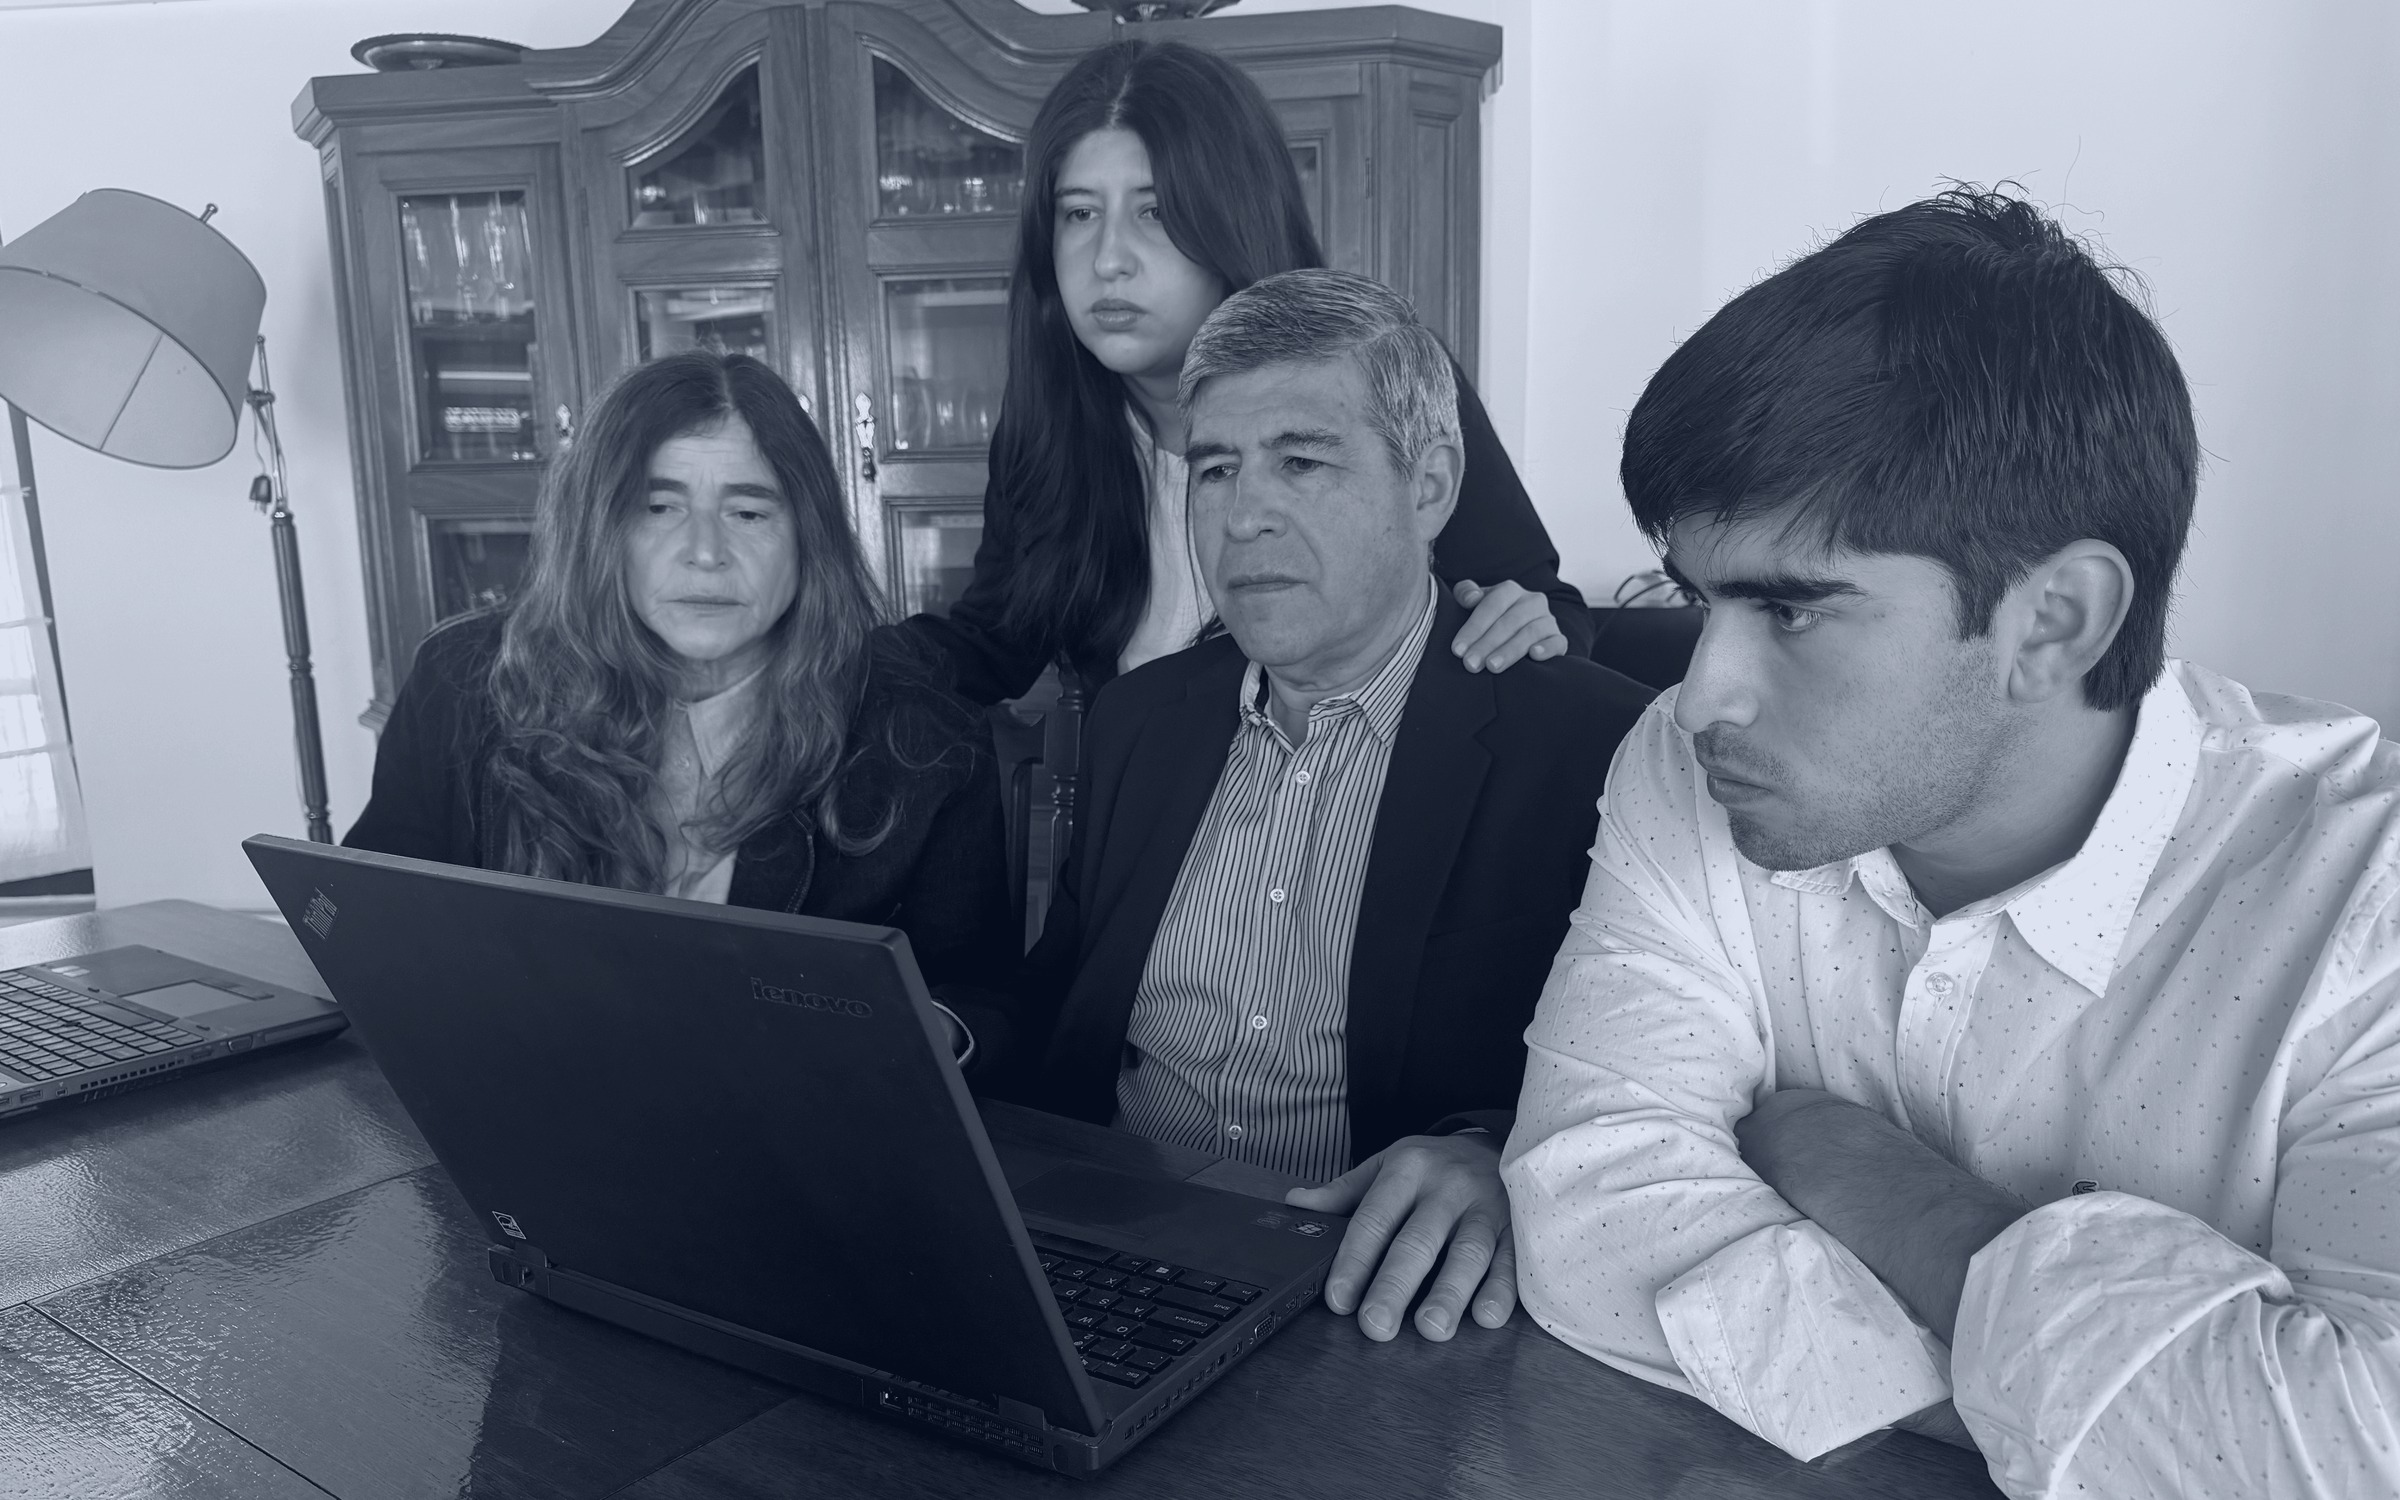
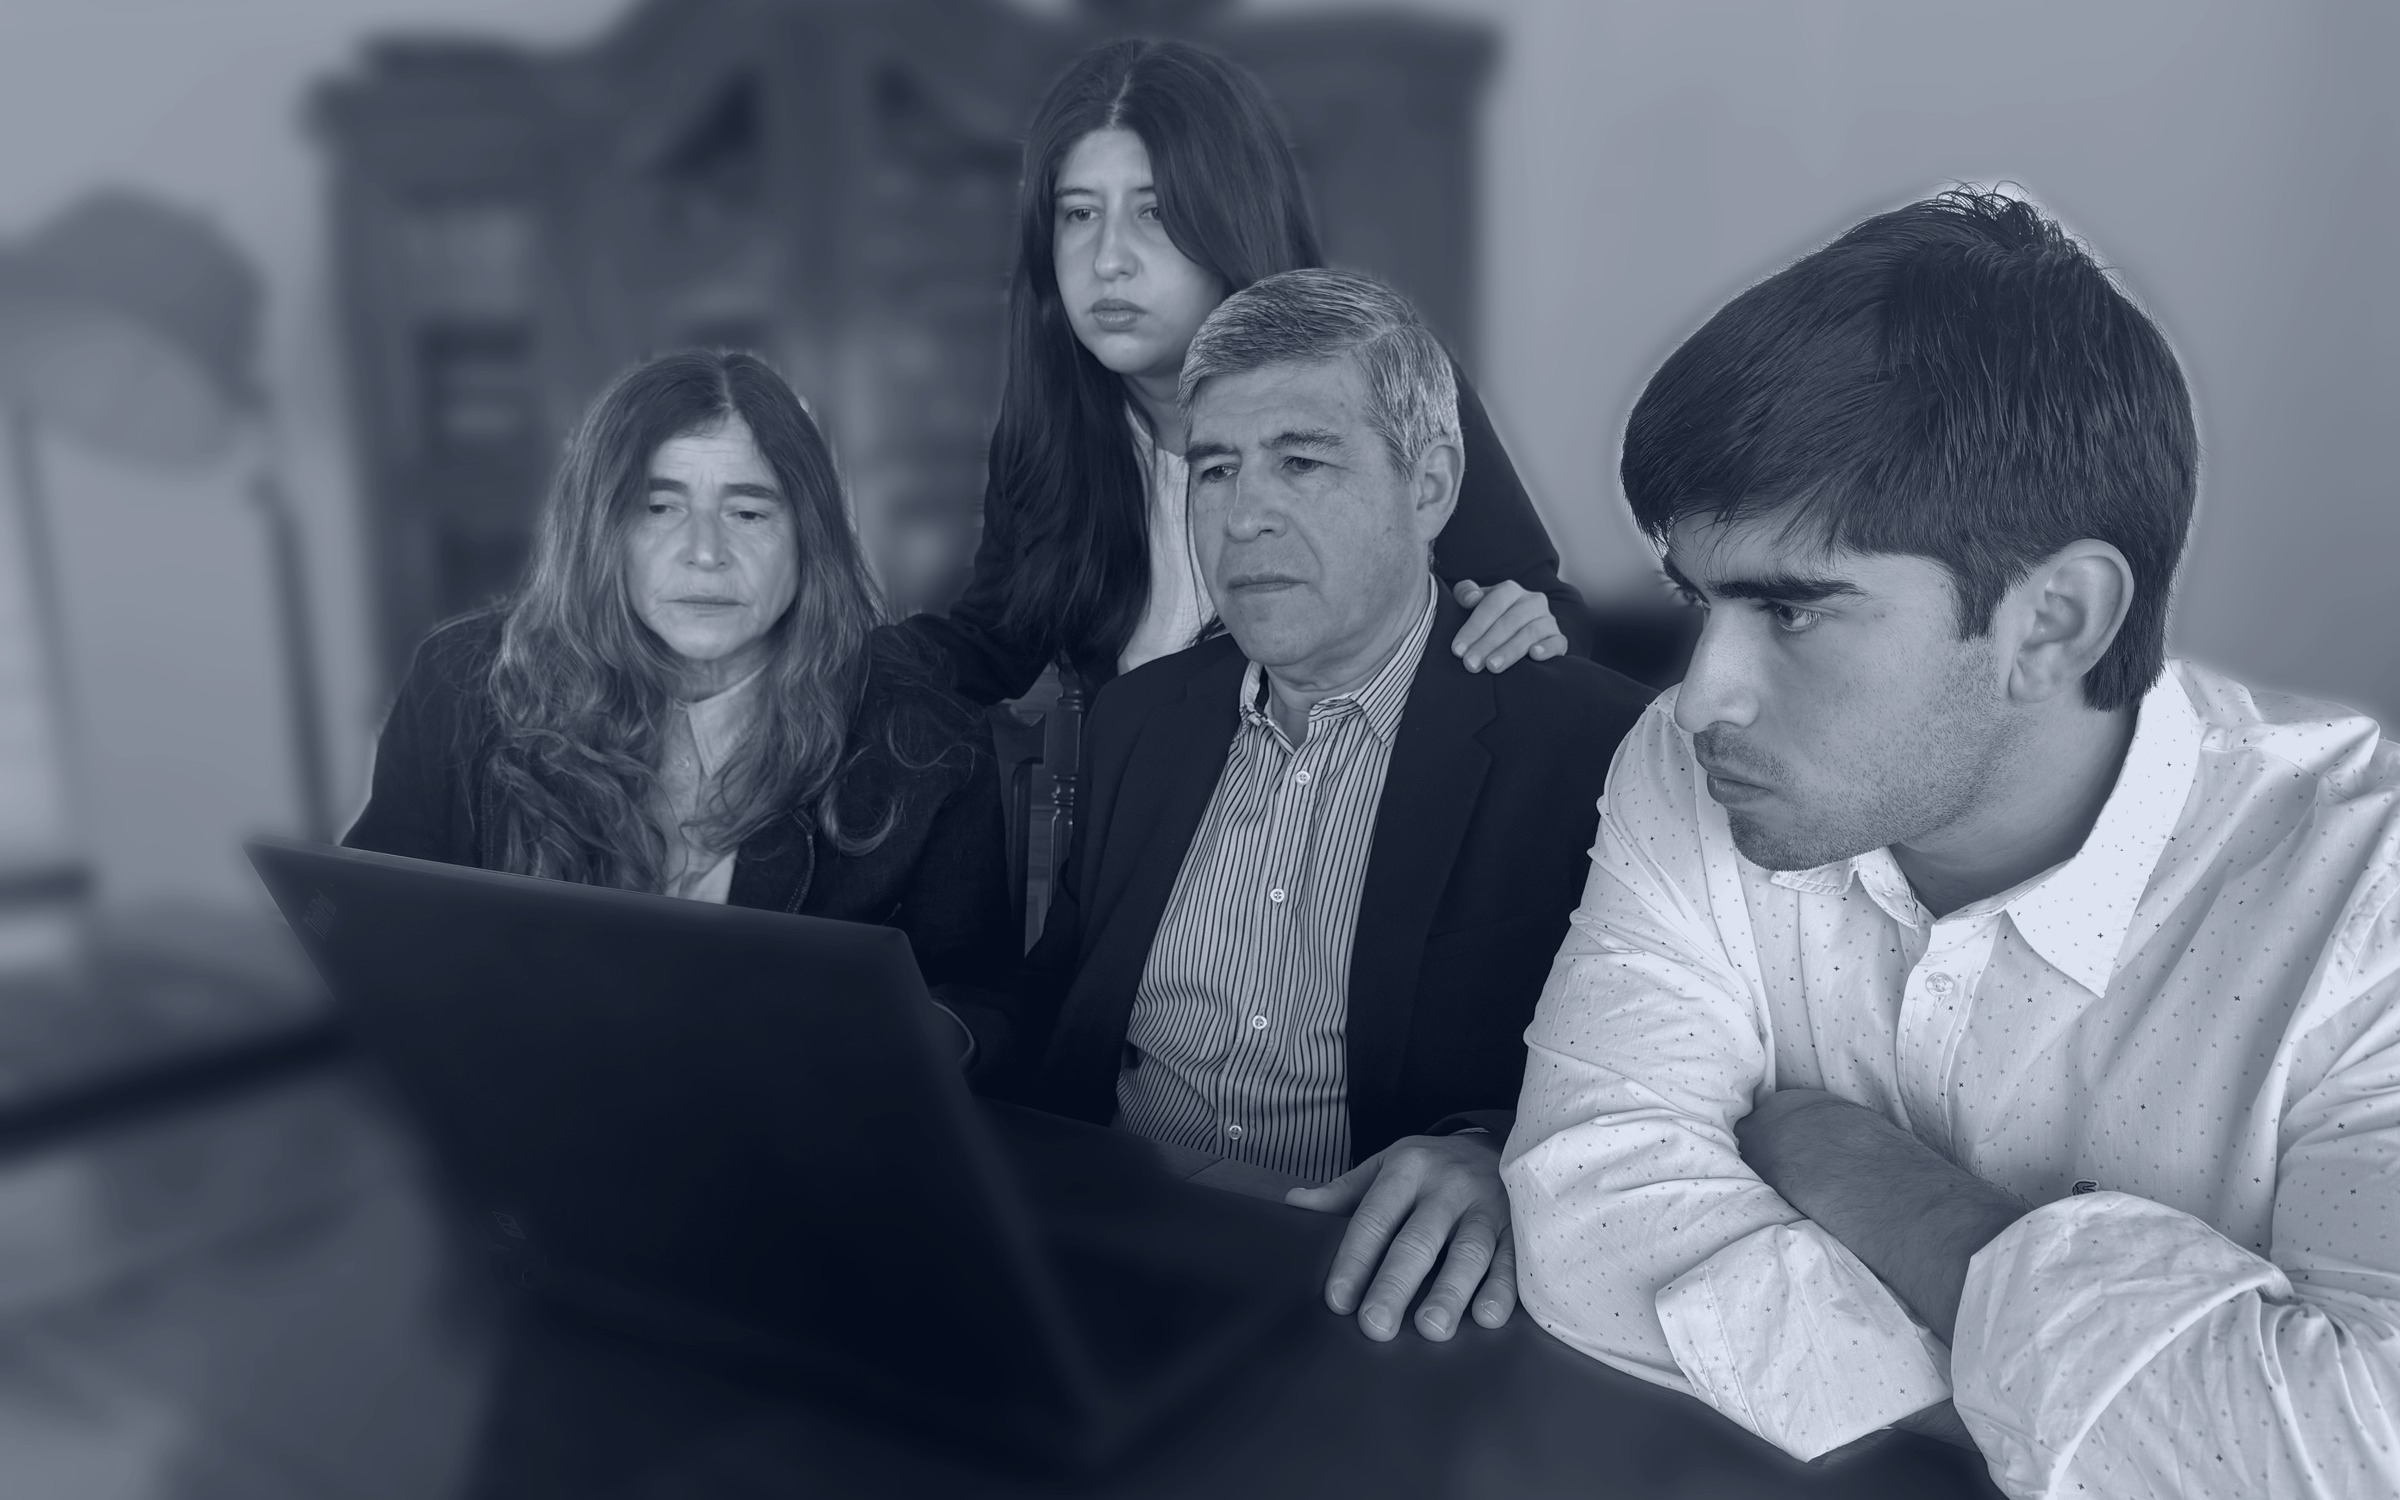
Desenfocar fondo de la foto grupal y aclarar el Hero en desktop
- equipo-nosotros.jpg: el aparador de madera y la lámpara de fondo se
  reemplazan por un desenfoque real de profundidad de campo (segmentación
  de personas + blur/oscurecido del fondo), sin fabricar un fondo falso
  de oficina. El mueble ya no se reconoce.
- Hero.astro: el overlay navy plano en desktop baja de 65% a 50% de
  opacidad (el mobile ya usaba un degradé más claro y no se toca).
  Afecta a las 6 páginas con Hero de imagen/video. Contraste de texto
  verificado con axe-core.

PENDIENTES.md actualizado (Etapa 14). Confirmada con el cliente la
asignación Agustín/Victoria de la Etapa 13.

diff --git a/PENDIENTES.md b/PENDIENTES.md
@@ -6,6 +6,34 @@ contenido inventado: son huecos explícitos a completar con material real del
 cliente antes de lanzar. Ver también `DGV_Spec_Desarrollo.md` sección 9.2
 (checklist de lanzamiento), que ya listaba varios de estos ítems.
 
+## Etapa 14 (Ajustes de feedback: fondo foto grupal + brillo del Hero)
+
+Feedback del cliente sobre la Etapa 13 y sobre el Hero en general:
+
+### ✅ Resuelto: fondo de la foto grupal
+
+- [x] La foto grupal original mostraba de fondo un aparador de madera y
+      una lámpara de pie (mobiliario doméstico reconocible), y el cliente
+      pidió que se pareciera más a una oficina. En vez de reemplazar el
+      fondo por uno falso (iría en contra de la regla de no inventar
+      contenido), se aplicó un desenfoque de profundidad de campo real:
+      segmentación de las 4 personas (`rembg`, modelo de personas) +
+      blur + oscurecido leve del fondo, manteniendo a las personas
+      nítidas. El mueble y la lámpara ya no se reconocen, queda como un
+      fondo desenfocado genérico tipo oficina, sin fabricar nada que no
+      esté en la foto real.
+
+### ✅ Resuelto: Hero más claro en desktop
+
+- [x] El cliente notó que las imágenes del Hero se veían más oscuras en
+      computadora que en el celular. Causa: `Hero.astro` usa un overlay
+      de degradé en mobile (más claro arriba, sólido abajo donde está el
+      texto) pero en desktop lo reemplazaba por un navy plano al 65% de
+      opacidad sobre toda la imagen. Se bajó a 50% (`md:bg-navy-900/50`)
+      — afecta a las 6 páginas con Hero de imagen/video por igual, ya
+      que es un solo componente compartido. Verificado que el contraste
+      del texto blanco sigue pasando axe-core en las 6 páginas.
+
 ## Etapa 13 (Fotos reales del equipo: grupal + individuales)
 
 El cliente subió 47 fotos reales del equipo a Drive (una sesión con
@@ -38,14 +66,10 @@ los colores del sitio.
 - [x] Verificado: `astro check` (0 errores), build (12 páginas), 0
       violaciones de axe-core en `/nosotros`, `/` y `/en/`.
 
-### ⚠ A confirmar con el cliente
+### ✅ Confirmado con el cliente
 
-- [ ] La asignación de fotos individuales a Agustín Velázquez y a
-      Victoria Velázquez se infirió (no hay forma de leerlo de la
-      imagen): las fotos están en el Drive de `agusvelazquez3@gmail.com`,
-      así que se asumió que el joven de la sesión es Agustín y la joven
-      es Victoria. Confirmar que la asignación es correcta antes de
-      darla por definitiva.
+- [x] La asignación de fotos individuales (Agustín / Victoria) fue
+      confirmada correcta por el cliente.
 
 ## Etapa 12 (i18n experimental: versión en inglés de 4 páginas)
 
